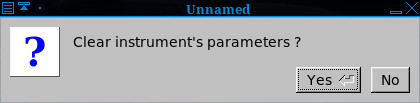
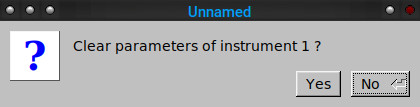
Added improvements to dialogs and scales discussion.

diff --git a/tex/yum_menu.tex b/tex/yum_menu.tex
@@ -6,7 +6,7 @@
 % \library     Documents
 % \author      Chris Ahlstrom
 % \date        2015-05-11
-% \update      2017-03-26
+% \update      2017-06-10
 % \version     $Revision$
 % \license     $XPC_GPL_LICENSE$
 %
@@ -225,10 +225,8 @@
    \figureref{fig:yoshimi_main_settings_tab}.
 
    Some settings only take effect after restarting the synthesizer.
-   In Main settings, only items marked with an asterisk ('*')
+   In \textbf{Main settings}, only the two items marked with an asterisk ('*')
    need a restart. 
-   (This in now only the first two. Some of the other ones had
-   prevously been wrongly marked.)
 
    The settings dialogs are quite different between \textsl{ZynAddSubFX} and
    \textsl{Yoshimi}.  There are some differences even between
@@ -299,14 +297,16 @@
    \textsl{Yoshimi} will set it's internal buffer size to match,
    which always seems to be 1024.
 
-   Values: \texttt{64, 128, 256*, 512, 1024}
+   Values: \texttt{64, 128, 256*, 512, 1024, 2048, 4096}
 
 \begin{figure}[H]
    \centering 
    \includegraphics[scale=0.75]{menu/Yoshimi/main-internalsize.jpg}
-   \caption[Internal Size Values]{AddSynth Internal Buffer Size (samples)}
+   \caption[Internal Size Values]{AddSynth Internal Buffer Size (old)}
    \label{fig:yoshimi_internalsize_values}
 \end{figure}
+
+   Note that there are two more values, not shown in this old diagram.
 
    \itempar{PADsynth interpolation}{Main Settings!PADsynth Interpolation}
    See \figureref{fig:padsynth_interpolation}, shown below,
@@ -410,7 +410,7 @@
 \end{figure}
 
     Note that numbers all start from 1 now, although 'specials' (in the command
-    line) are still zero based (they are not seen, though,
+    line) are still zero-based (they are not seen, though,
     unless set at compile time).
 
    \index{reports!middle-click}
@@ -458,7 +458,8 @@
 
 \begin{figure}[H]
    \centering 
-   \includegraphics[scale=0.75]{1.4.1/SettingsSwitches.png}
+%  \includegraphics[scale=0.75]{1.4.1/SettingsSwitches.png}
+   \includegraphics[scale=0.75]{1.5.0/SettingsSwitches.png}
    \caption{Yoshimi Switches Tab}
    \label{fig:yoshimi_settings_switches_tab}
 \end{figure}
@@ -471,6 +472,7 @@
       \item \textbf{Show Splash Screen}
       \item \textbf{Log Load times}
       \item \textbf{Log XML headers}
+      \item \textbf{Include disabled data in XML files}
       \item \textbf{Enable GUI}
       \item \textbf{Enable CLI}
    \end{enumber}
@@ -505,6 +507,10 @@
    (or \texttt{stderr}) so that
    one can then see what \textsl{ynAddSubFX}/\textsl{Yoshimi}
    version created the file.
+
+   \itempar{Include disabled data in XML files}{Main Settings!Include disabled data}
+   Allows disabled data to be stored in the XML file.
+   This makes it a lot easier to re-enable a setting later.
 
    \itempar{Enable GUI}{Switches!Enable GUI}
    If checked, the user-interface is enabled.  This setting is normally what you
@@ -798,6 +804,7 @@
    Values: \texttt{Off*, On}
 
    \itempar{Bank Root Change}{MIDI settings!bank root change}
+   Sets the control value to use for a bank-root change.
 
    Values: \texttt{0*, to 127}
 
@@ -811,6 +818,15 @@
    here because, at that point, it still hasn't actually been either set or
    abandoned. It remains available for when the user actually makes up his/her
    mind.
+   If the control number is already in use for
+   another purpose, one might get a warning like the following:
+
+\begin{figure}[H]
+   \centering 
+   \includegraphics[scale=0.75]{1.5.0/SettingsInUse.png}
+   \caption[MIDI Setting In Use]{MIDI Setting In Use}
+   \label{fig:yoshimi_settings_in_use}
+\end{figure}
 
    \itempar{Bank Change}{MIDI settings!bank change}
    Bank Change.
@@ -1030,9 +1046,13 @@
 \label{subsec:menu_scales}
 
    \textsl{Yoshimi} is a microtonal synthesizer, and is capable of a wide
-   range of microtonal scales.
-
-   At present, we're not too experienced with this feature.
+   range of microtonal scales.  Many improvements have been made to the scales,
+   including the user-interface, performance, and accuracy of calculations,
+   in version 1.5.2.
+   \index{LV2!scales}
+   For users of the LV2 plugin, any changes in scale
+   settings are reported back so that the plugin host can be aware of the
+   change.
 
 \begin{figure}[H]
    \centering 
@@ -1054,7 +1074,8 @@
 
 \begin{figure}[H]
    \centering 
-   \includegraphics[scale=0.75]{menu/Scales/scale-settings-microtonal.jpg}
+%  \includegraphics[scale=0.75]{menu/Scales/scale-settings-microtonal.jpg}
+   \includegraphics[scale=0.75]{1.5.0/scale-settings-microtonal.png}
    \caption{Yoshimi Menu, Scales Settings}
    \label{fig:yoshimi_menu_scales_settings}
 \end{figure}
@@ -1067,9 +1088,32 @@
    The last entry in the tunings list represents one octave.
    All other notes are deduced from these settings.
 
+   \begin{enumber}
+      \item \textbf{Enable Microtonal}
+      \item \textbf{"A" Freq.}
+      \item \textbf{"A" Note}
+      \item \textbf{Invert Keys}
+      \item \textbf{Center}
+      \item \textbf{Name}
+      \item \textbf{Shift}
+      \item \textbf{Comment}
+      \item \textbf{Tunings}
+      \item \textbf{Retune}
+      \item \textbf{Keyboard Mapping}
+      \item \textbf{ON}
+      \item \textbf{First note}
+      \item \textbf{Middle note}
+      \item \textbf{Last note}
+      \item \textbf{nts./oct.}
+      \item \textbf{Import .scl file}
+      \item \textbf{Map Size}
+      \item \textbf{Import .kbm file}
+      \item \textbf{Close}
+   \end{enumber}
+
    \setcounter{ItemCounter}{0}      % Reset the ItemCounter for this list.
 
-   \itempar{Microtonal}{Enable Microtonal}
+   \itempar{Enable Microtonal}{Enable Microtonal}
    Enable Microtonal Scales.
    When disabled, the synthesizer will use equal-temperament, 12 notes per
    octave.  Otherwise, one can input any scale one desires.
@@ -1133,16 +1177,23 @@
    The default is a series of values:
    \texttt{0100.0, 0200.0, ..., 1100.0, 2/1}.
 
+   \itempar{Keyboard Mapping}{keyboard}
+   The items related to the \textbf{Keyboard Mapping} are discussed
+   separately in the next section.
+
    \itempar{Retune}{retune}
    Retune button.
    This button retunes the synthesizer according to the settings of
    the \textbf{Tunings} and \textbf{Keyboard Mapping} lists.
-   All other changes operate immediately.
+   The \textbf{Retune} button is needed if one
+   changes any of the actual scale settings. However, it's not needed for key
+   mappings or any other controls, all of which operate immediately.
 
    \itempar{nts./oct}{Notes per Octave}
    Notes Per Octave.
+   This value is affected by changes to the \textbf{Tunings} mapping.
 
-   Values: \texttt{12*} (range not yet known)
+   Values: \texttt{12*}
 
    \itempar{Import .SCL file}{scale file}
    Import Scala files.
@@ -1171,7 +1222,7 @@
    \label{fig:yoshimi_menu_scales_import_file}
 \end{figure}
 
-   \itempar{Import .scl file}{scl file}
+%  \itempar{Import .scl file}{scl file}
    This item is a standard file dialog for reading
    a \texttt{*.scl} file.
 
@@ -1182,14 +1233,17 @@
    \label{fig:yoshimi_menu_scales_import_keyboard_map}
 \end{figure}
 
+   \itempar{Map Size}{scales!map size}
+   Map Size.
+   This value is affected by changes to the \textbf{Keyboard Mapping}.
+
+   Values: \texttt{12*}
+
    \itempar{Import .kbm file}{kbm file}
    This item is a standard file dialog for reading
    a \texttt{*.kbm} file.
 
    \itempar{Close, Scales Dialog}{close scales}
-
-   The items related to the \textbf{Keyboard Mapping} are discussed
-   separately in the next section.
 
 \paragraph{Keyboard Mapping}
 \label{paragraph:menu_scales_keyboard_mapping}
@@ -1202,7 +1256,7 @@
       \item \textbf{ON}
       \item \textbf{First Note}
       \item \textbf{Last Note}
-      \item \textbf{Midle Note}
+      \item \textbf{Middle Note}
       \item \textbf{Map}
       \item \textbf{Map Size}
    \end{enumber}
@@ -1210,25 +1264,28 @@
    \setcounter{ItemCounter}{0}      % Reset the ItemCounter for this list.
 
    \itempar{ON}{scales!on}
+   This item enables the \textbf{Keyboard Mapping} list.
 
    Values: \texttt{Off*, On}
 
    \itempar{First Note}{scales!first note}
    First MIDI Note Number.
-   Keys below this value are ignored.
+   Sets the MIDI note value to use for the first note of the scale.
+   MIDI notes below this value are ignored.
 
    Values: \texttt{0* to 127}
 
-   \itempar{Last Note}{scales!last note}
-   Last MIDI Note Number.
-   Keys above this value are ignored.
+   \itempar{Middle Note}{scales!middle note}
+   Sets the MIDI note value to use for the middle note of the scale.
+   This is the note where the scale-degree 0 setting is mapped;
+   the middle note represents the note where the formal octave starts.
 
    Values: \texttt{0 to 127*}
 
-   \itempar{Middle Note}{scales!middle note}
-   Middle note where scale-degree 0 is mapped to;
-   the middle note represents the note where the formal octave starts.
-   Note the misspelling of "middle".
+   \itempar{Last Note}{scales!last note}
+   Last MIDI Note Number.
+   Sets the MIDI note value to use for the last note of the scale.
+   Keys above this value are ignored.
 
    Values: \texttt{0 to 127*}
 
@@ -1273,6 +1330,9 @@
    \label{fig:yoshimi_menu_failed_to_load_scales}
 \end{figure}
 
+   Note that the loading and saving of scales is fully available in the
+   command-line as well.
+
 \subsubsection{Menu / Scales / Save}
 \label{subsec:menu_scales_save}
 
@@ -1281,6 +1341,13 @@
    If one has imported a scale from an \texttt{*.scl} file, and one
    wants direct access to it from the \textbf{Scales / Recent Scales} menu, one
    must first save the imported file as an \texttt{*.xsz} files.
+
+   Note that the loading and saving of scales is fully available in the
+   command-line as well.
+
+   In the past, every time one saved and reloaded a scale, there was a
+   degradation in the accuracy of the scales.  This issue has been fixed, since
+   people are very sensitive to pitch intervals.
 
 \subsubsection{Menu / Scales / Recent Scales...}
 \label{subsec:menu_scales_recent_scales}

diff --git a/tex/yum_menu_instruments.tex b/tex/yum_menu_instruments.tex
@@ -68,11 +68,12 @@
 \begin{figure}[H]
    \centering 
    \includegraphics[scale=0.9]{1.3.8/yoshimi-menu-instrument.jpg}
-   \caption{Yoshimi Menu, Instrument}
+   \caption{Yoshimi Menu, Instruments}
    \label{fig:yoshimi_instrument_menu}
 \end{figure}
 
-   This new version of the \textbf{Instrument} menu is somewhat different than
+   This new version of the \textbf{Instruments}
+   menu is somewhat different than
    the old version.  It is actually simpler and easier to use, while still
    offering all of the power of the setting up of instruments in
    \textsl{Yoshimi}.
@@ -583,9 +584,7 @@
    \label{fig:clear_instrument_dialog}
 \end{figure}
 
-   Funny, in recent versions of \textsl{Yoshimi}, the \textbf{Yes} and
-   \textbf{No} buttons have switched places.  \textbf{No} is now the default
-   action.
+   \textbf{No} is now the default action.
 
 \subsubsection{Menu / Instrument / Misc Notes}
 \label{subsubsec:menu_instrument_misc_notes}

diff --git a/tex/yoshimi-user-manual.tex b/tex/yoshimi-user-manual.tex
@@ -6,7 +6,7 @@
 % \library     Documents
 % \author      Chris Ahlstrom
 % \date        2015-04-20
-% \update      2017-03-11
+% \update      2017-06-10
 % \version     $Revision$
 % \license     $XPC_GPL_LICENSE$
 %
@@ -601,6 +601,16 @@
    \includegraphics[scale=1.0]{1.4.1/Front.png}
    \caption{Yoshimi Main Screen}
    \label{fig:yoshimi_main_screen}
+\end{figure}
+
+   Note that, if one presses the \texttt{Space} bar while the main window has
+   keyboard focus, the following prompt appears:
+
+\begin{figure}[H]
+   \centering 
+   \includegraphics[scale=0.75]{1.5.0/main_window_spacebar.png}
+   \caption{Space Bar Prompt}
+   \label{fig:yoshimi_main_spacebar_prompt}
 \end{figure}
 
    For this manual, the main window is composed of the following sections:
